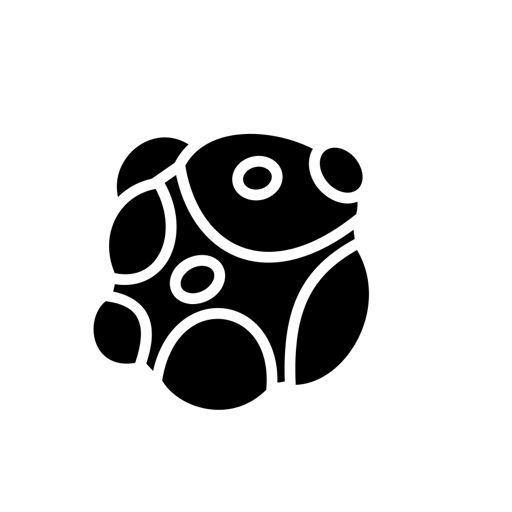
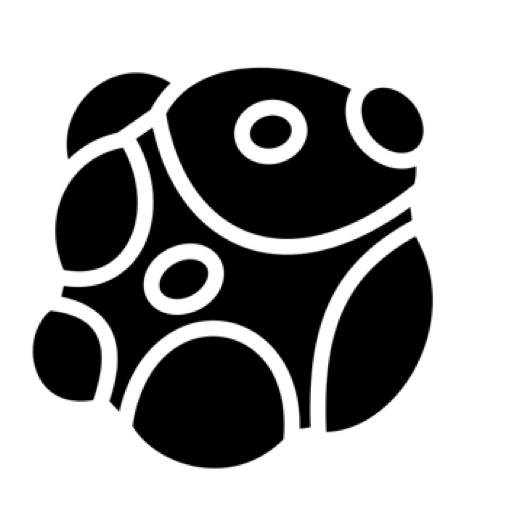
Merge pull request #117 from jurjoroa/Dev
Merge changes for ggpop v1.2.0 release version part 2

Pull request: Merge changes for ggpop v1.2.0 release version part 2
This pull request includes several updates to the `README.md` file, focusing on improving the documentation and examples related to icon usage and plotting population charts. The most important changes include updating the icon names, adding new sections for native and Fontawesome icons, enhancing plot customization, and including a new example for simulating the natural history of colorectal cancer.

Updates to icon names and documentation:

* Updated icon names in the `df_pop_mx_prop` and `df_pop_dis_mx_prop` datasets from "male" and "female" to "ggmale" and "ggfemale" respectively, and added new icons for disabled males and females. 
* Added a new section explaining the difference between native and Fontawesome icons, including a list of available native icons and a sample list of Fontawesome icons.

Enhancements to plot customization:

* Improved the `geom_pop()` function example to include icons in the legend, background color customization, and additional plot elements such as title, subtitle, and caption.
* Updated the example plot for population by sex and condition to use the new icon names and added a legend icon scale.

New example:

* Added a new example demonstrating the simulation of the natural history of colorectal cancer using the `ggpop` package, with a circular population chart and color-coded icons by cancer type.


Version: #107

diff --git a/README.md b/README.md
@@ -121,41 +121,73 @@ df_pop_mx_prop <- process_data(data = df_pop_mx, group_var = sex,
 
 ### 3.- Assign icons to groups
 
-Here, we create a new column called `icon` in the `df_pop_mx_prop` dataset. The `case_when()` function checks each row’s **type** (either "male" or "female") and assigns a matching value ("male" or "female") to the `icon` column.
+Here, we create a new column called `icon` in the `df_pop_mx_prop` dataset. The `case_when()` function checks each row’s **type** (either "male" or "female") and assigns a matching value ("ggmale" or "ggfemale") to the `icon` column.
 
 ``` r
 df_pop_mx_prop <- df_pop_mx_prop %>% 
   mutate(icon = case_when(
-    type == "male" ~ "male",
-    type == "female" ~ "female"))
+    type == "male" ~ "ggmale",
+    type == "female" ~ "ggfemale"))
 ```
 
-#### 3.1 List of icons available in the package.
+### 4.- Icons
+
+The package includes a set of native icons are optimized to generate plots fast, regardless of the sample size. These icons are in SVG format, which is a vector format that allows for scaling without loss of quality. The icons are used to represent different groups in the population chart.
+Nevertheless, the package also allows the use of `fontawesome` icons. The difference between these two approaches is that the native icons are optimized for size and quality, while the `fontawesome` icons are more flexible and can be easily customized, however, the plot will be slow to render, especially if the plots contains a big sample size. 
+
+##### 4.1.- Native Icons
+
+Here is the list of native icons available in the package:
 
 
 | Icon         | Icon Preview                                                                                               |
 |:------------------|:-----------------------------------------------------------------------------------------------------------|
-| `bike`           | <img src="inst/figures/bike.svg" alt="bike icon" width="37" height="37">                                    |
-| `build`          | <img src="inst/figures/build.svg" alt="build icon" width="25" height="25">                                  |
-| `car`            | <img src="inst/figures/car.svg" alt="car icon" width="25" height="25">                                      |
-| `cancer`         | <img src="inst/figures/cancer.svg" alt="cancer icon" width="37" height="37">                                |
-| `dollar`         | <img src="inst/figures/dollar.svg" alt="dollar icon" width="32" height="32">                                |
-| `female`         | <img src="inst/figures/female.svg" alt="female icon" width="32" height="32">                                |
-| `graduation_cap` | <img src="inst/figures/graduation_cap.svg" alt="graduation cap icon" width="32" height="32">                |
-| `disability`       | <img src="inst/figures/disability.svg" alt="handicap icon" width="32" height="32">                            |
-| `male`           | <img src="inst/figures/male.svg" alt="male icon" width="32" height="32">                                    |
-| `money`          | <img src="inst/figures/money.svg" alt="money icon" width="32" height="32">                                  |
-| `syringe`        | <img src="inst/figures/syringe.svg" alt="syringe icon" width="32" height="32">                              |
-| `tree`           | <img src="inst/figures/tree.svg" alt="tree icon" width="32" height="32">                                    |
+| `ggbike`           | <img src="inst/figures/ggbike.svg" alt="bike icon" width="37" height="37">                                    |
+| `ggbuild`          | <img src="inst/figures/ggbuild.svg" alt="build icon" width="25" height="25">                                  |
+| `ggcar`            | <img src="inst/figures/ggcar.svg" alt="car icon" width="25" height="25">                                      |
+| `ggcancer`         | <img src="inst/figures/ggcancer.svg" alt="cancer icon" width="37" height="37">                                |
+| `ggdollar`         | <img src="inst/figures/ggdollar.svg" alt="dollar icon" width="32" height="32">                                |
+| `ggfemale`         | <img src="inst/figures/ggfemale.svg" alt="female icon" width="32" height="32">                                |
+| `gggraduation_cap` | <img src="inst/figures/gggraduation_cap.svg" alt="graduation cap icon" width="32" height="32">                |
+| `ggdisability`       | <img src="inst/figures/ggdisability.svg" alt="handicap icon" width="32" height="32">                            |
+| `ggmale`           | <img src="inst/figures/ggmale.svg" alt="male icon" width="32" height="32">                                    |
+| `ggmoney`          | <img src="inst/figures/ggmoney.svg" alt="money icon" width="32" height="32">                                  |
+| `gggsyringe`        | <img src="inst/figures/ggsyringe.svg" alt="syringe icon" width="32" height="32">                              |
+| `ggtree`           | <img src="inst/figures/ggtree.svg" alt="tree icon" width="32" height="32">                                    |
+| `ggadenoma`        | <img src="inst/figures/ggadenoma.svg" alt="adenoma icon" width="32" height="32">                              |
+| `ggdistal`         | <img src="inst/figures/ggdistal.svg" alt="distal icon" width="32" height="32">                                 |
+| `ggproximal`       | <img src="inst/figures/ggproximal.svg" alt="proximal icon" width="32" height="32">                             |
+| `ggrectum`         | <img src="inst/figures/ggrectum.svg" alt="rectum icon" width="32" height="32">                                 |
+| `ggone`            | <img src="inst/figures/ggone.svg" alt="gone icon" width="32" height="32">                                      |
+| `ggtwo`            | <img src="inst/figures/ggtwo.svg" alt="two icon" width="32" height="32">                                      |
+| `ggthree`          | <img src="inst/figures/ggthree.svg" alt="three icon" width="32" height="32">                                    |
+| `ggfour`           | <img src="inst/figures/ggfour.svg" alt="four icon" width="32" height="32">                                     |
 
 
-More icons will be available in the future upon request.
+More icons will be available in the future upon request to be optimized. 
+
+
+##### 4.2.- Fontawesome Icons
+
+<p style="display: flex; align-items: center;">
+  <img src="inst/figures/logo.png" width="95px" alt="Logo" />
+  <img src="inst/figures/fontawesome.png" width="105px" alt="Fontawesome" />
+</p>
+
+The package also allows the use of `fontawesome` icons. The icons are stored in the `fontawesome` package. The only thing that you need to specify is the name of the icon.
+
+For example, this is ust a few sample of more than 1,500 icons available in the `fontawesome` package:
+| List of Font Awesome icons                                                                                                                     | Preview                                                                                                       |
+|:-----------------------------------------------------------------------------------------------------------------------------------------------:|:--------------------------------------------------------------------------------------------------------------:|
+| **Sample icons:** <br>- home <br>- user <br>- envelope <br>- bell <br>- camera <br>- cog <br>- heart <br>- calendar <br>- cart-plus <br>- check <br>- cloud <br>- comment <br>- comments <br>- download <br>- edit <br>- file <br>- filter <br>- flag <br>- folder <br>- phone | <img src="inst/figures/fontawesome_table.jpg" width="900px" alt="fontawesome table preview" /> |
+
+You can check the full list of icons in the [Font Awesome website](https://fontawesome.com/icons?d=gallery&p=2&m=free).
 
 ### 4.- Plot population chart
 
 ``` r
 ggplot() +
-  geom_pop(data = df_prop_mx_f, aes(icon = icon, group=type, color=type),
+  geom_pop(data = df_pop_mx_prop, aes(icon = icon, group=type, color=type),
   size = 1, arrange=F) +
   theme_void() +
   theme(legend.position = "bottom")
@@ -168,10 +200,29 @@ The `geom_pop()` function creates a population chart using the `df_prop_mx_f` da
 
 #### 4.1 Improve plot 
 
-Like a ggplot object, we can improve it to have a more presentable plot. We can arrange our points, give color to the background, and add a title and caption to the plot.
+Like a ggplot object, we can improve it to have a more presentable plot. We can arrange our icons, add them as part of the legend, give color to the background, and add a title and caption to the plot.
 
-
-
+``` r
+ggplot() +
+    geom_pop(data = df_pop_mx_prop, aes(icon = icon, group=type, color=type),
+    size = 1, arrange=T) +
+    scale_legend_icon() + #add icon to the legend
+    theme_void(base_size = 40) +
+    theme(legend.position = "bottom") + 
+labs(title = "Population in Mexico by Sex",
+     subtitle = "2024",
+     caption = "Source: demogmx") +
+  theme(legend.title = element_blank(),
+        plot.background = element_rect(fill = "black"),
+        panel.background = element_rect(fill = "black"),
+        legend.background = element_rect(fill = "black"),
+        legend.text = element_text(color = "white"),
+        plot.title = element_text(color = "white"),
+        plot.subtitle = element_text(color = "white"),
+        plot.caption = element_text(color = "white")) +
+  scale_color_manual(values = c("male" = "#1E88E5", "female" = "#D81B60"),
+                     labels = c("female" = "Females: 51%", "male" = "Males: 49%"))
+```
 
 ![Example Plot](https://raw.githubusercontent.com/jurjoroa/ggpopdata/main/inst/figures/example_plot2.png)
 
@@ -197,31 +248,38 @@ df_pop_dis_mx_prop <- process_data(data = df_pop_dis_mx, group_var = sex,
 #3.- Assign icons to groups
 df_pop_dis_mx_prop <- df_pop_dis_mx_prop %>% 
   mutate(icon = case_when(
-    type == "male" ~ "male",
-    type == "female" ~ "female",
-    type == "disabled males" ~ "disability",
-    type == "disabled females" ~ "disability"))
+    type == "male" ~ "ggmale",
+    type == "female" ~ "ggfemale",
+    type == "disabled males" ~ "ggdisability",
+    type == "disabled females" ~ "ggdisability"))
 
 #4.- Plot 
 
 ggplot() +
   geom_pop(data = df_pop_dis_mx_prop, aes(icon = icon, group=type, color=type),
-           size = 1.3, arrange=F, legend_icons = T) +
-  theme_void() +
+           size = 1.3, arrange=F) +
+  scale_legend_icon(size=10) +
+  theme_void(base_size = 36) +
   labs(title = "Population in Mexico by Sex and condition",
        subtitle = "2022",
        caption = "As of 2023, 16% of the population in Mexico has some form of disability.") +
+  theme(legend.position = "bottom",legend.title = element_blank()) +
   scale_color_manual(values = c("male" = "#1E88E5", "female" = "#D81B60",
                                 "disabled males" = "#90CAF9", 
                                 "disabled females" = "#F48FB1"),
-    labels = c("male" = "Males", "female" = "Females", 
-               "disabled females" = "Disabled Females",
-               "disabled males" = "Disabled Males")) + 
-  theme(legend.position = "bottom",legend.title = element_blank()) +
-  guides(color = guide_legend(override.aes = list(icon = c("disability", "disability", 
-                                                           "female", "male"), size = 5)))
+                     labels = c("male" = "Males", "female" = "Females", 
+                                "disabled females" = "Disabled Females",
+                                "disabled males" = "Disabled Males"))
 ```
 
 
 ![Example Plot 3](https://raw.githubusercontent.com/jurjoroa/ggpopdata/main/inst/figures/example_plot3.png)
+
+
+### 6.- Simulation of natural history of colorectal cancer example
+
+As an applied example, we plotted the simulation of the natural history of colorectal cancer employing `ggpop` package. As it can be appreciated, the plot is a circular representative population chart, where the population is represented by icons. The icons are arranged in a circular manner, and the size of the icons is proportional to the population size. The icons are colored according to the type of cancer, and the legend is displayed at the bottom of the plot. The plot is visually appealing and informative, making it easy to understand the distribution of the population by cancer type.
+This type of plots can be used to present complex population data in a more accessible and visually appealing way, specially if we want to transmit a message to a non-technical audience or decision makers. 
+
+![SimCRC Natural History](https://raw.githubusercontent.com/jurjoroa/ggpopdata/main/inst/figures/simcrc_natural_history.png)
 